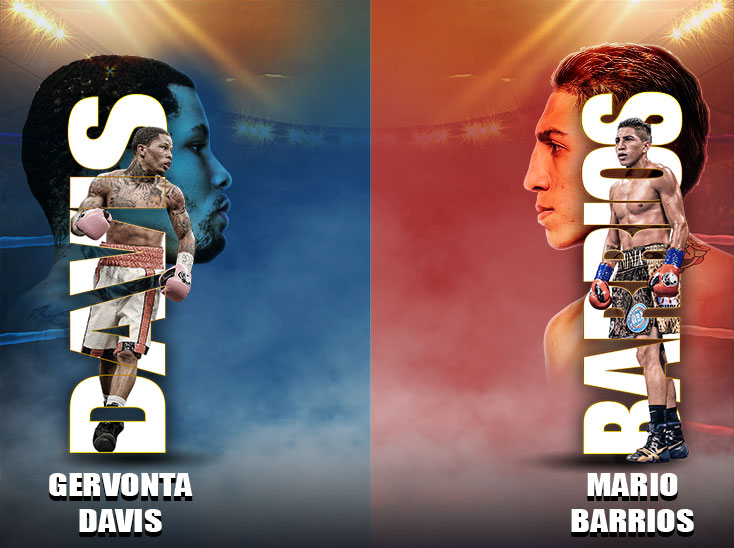
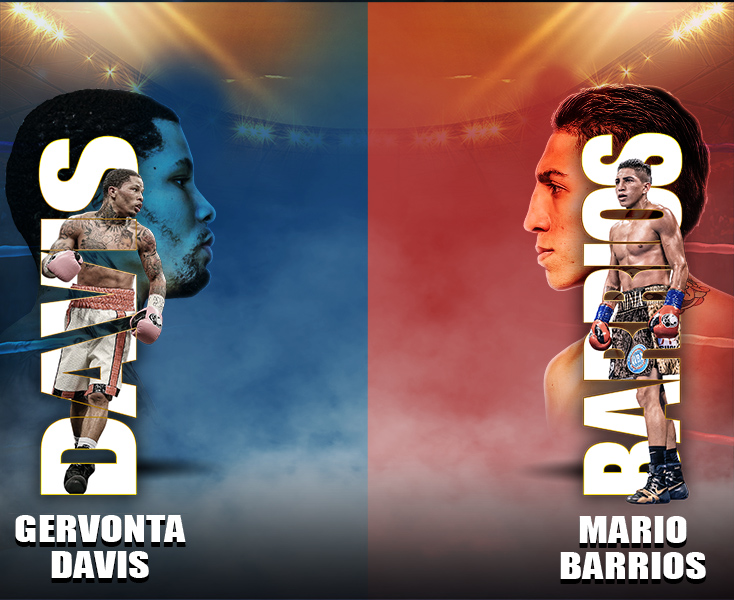
updated hero image with slightly taller one, and adjusted styling

diff --git a/src/components/Hero/index.js b/src/components/Hero/index.js
@@ -59,7 +59,7 @@ const Hero = ({ title, date, background, logo, vs }) => {
         >
           <Box width={`100%`} display="grid" placeItems="center">
             <Box
-              maxWidth={[`170px`, `200px`, `250px`, `250px`, `400px`]}
+              maxWidth={[`160px`, `200px`, `250px`, `250px`, `400px`]}
               mx={`auto`}
               py={1}
             >
@@ -81,9 +81,9 @@ const Hero = ({ title, date, background, logo, vs }) => {
               </Heading>
             </Box>
             <Box
-              maxWidth={[`40px`, `80px`, `100px`, `100px`, `150px`]}
-              pb={[2, 3]}
-              mt={[-1, 0]}
+              maxWidth={[`45px`, `80px`, `100px`, `100px`, `150px`]}
+              pb={[3, 5, 5, 5, 5]}
+              mt={[0, 2, 2, 2, 2]}
             >
               <Fade bottom>
                 <GatsbyImage image={vs} alt={"VS logo"} />
@@ -151,8 +151,8 @@ const Hero = ({ title, date, background, logo, vs }) => {
               // width={`fit-content`}
               px={4}
               py={[0, 1, 1, 1]}
-              mt={[-2, -2, -2, -5, -5]}
-              mb={0}
+              mt={[-2, -4, -4, -5, -5]}
+              mb={[2, 3, 6, 6, 6]}
               textTransform="uppercase"
             >
               <Fade bottom>
@@ -162,7 +162,7 @@ const Hero = ({ title, date, background, logo, vs }) => {
                   textShadow={`0 2px 1px rgb(0 0 1 / 100%)`}
                   // letterSpacing="widest"
                   lineHeight={1}
-                mt={[2, 4, 6]}
+                  mt={[2, 4, 6]}
                   fontWeight={"900"}
                 >
                   {date}
@@ -204,10 +204,9 @@ const Hero = ({ title, date, background, logo, vs }) => {
 
       <Box display="grid" style={{ gridArea: "1/1" }}>
         <GatsbyImage
-          className="art-directed"
           image={background}
           alt="Title"
-          style={{ gridArea: "1/1", maxWidth: "100%" }}
+          style={{ gridArea: "1/1" }}
         />
       </Box>
     </Box>

diff --git a/src/components/Logos/index.js b/src/components/Logos/index.js
@@ -70,35 +70,35 @@ const Logos = () => {
       <Grid
         display={`grid`}
         placeItems={`center`}
-        templateColumns={["repeat(2, auto)", "repeat(4, auto)"]}
-        templateRows={["repeat(2, 1fr)", "repeat(1, 1fr)"]}
-        gridGap={6}
+        templateColumns={["repeat(2, .7fr)", ".7fr auto auto .7fr"]}
+        templateRows={["repeat(2, auto)", "repeat(1, auto)"]}
+        gridGap={[1, 6]}
         className="logoContainer"
         px={2}
         mx="auto"
       >
-        <Box display={`grid`} placeItems={`center`} className="logoItemLg">
+        <Box display={`grid`} placeItems={`center`}>
           <GatsbyImage
             image={getImage(logos.mayweather.childImageSharp)}
             alt={"box logo"}
             style={{ maxWidth: "100%" }}
           />
         </Box>
-        <Box display={`grid`} placeItems={`center`} className="logoItem">
+        <Box display={`grid`} placeItems={`center`}>
           <GatsbyImage
             image={getImage(logos.gtd.childImageSharp)}
             alt={"box logo"}
             style={{ maxWidth: "100%" }}
           />
         </Box>
-        <Box display={`grid`} placeItems={`center`} className="logoItem">
+        <Box display={`grid`} placeItems={`center`}>
           <GatsbyImage
             image={getImage(logos.gtb.childImageSharp)}
             alt={"box logo"}
             style={{ maxWidth: "100%" }}
           />
         </Box>
-        <Box display={`grid`} placeItems={`center`} className="logoItemLg">
+        <Box display={`grid`} placeItems={`center`}>
           <GatsbyImage
             image={getImage(logos.showtime.childImageSharp)}
             alt={"box logo"}

diff --git a/src/components/Footer/index.js b/src/components/Footer/index.js
@@ -27,7 +27,7 @@ const Footer = () => {
       role="contentinfo"
       mx="auto"
       maxW="7xl"
-      py={[0, 0, 12]}
+      py={[0, 0, 8]}
       px={{
         base: "4",
         md: "8",
@@ -41,9 +41,10 @@ const Footer = () => {
           "repeat(2, auto)",
           "auto 50% auto",
         ]}
-        templateRows={["repeat(3, 1fr)", "repeat(2, 1fr)", "repeat(1, 1fr)"]}
+        templateRows={["repeat(3, auto)", "repeat(2, auto)", "repeat(1, auto)"]}
         gridGap={6}
         px={2}
+        py={4}
         mx="auto"
         mb={10}
       >

diff --git a/src/components/Hero/hero.scss b/src/components/Hero/hero.scss
@@ -1,7 +1,3 @@
-// .art-directed img {
-//     height: auto;
-// }
-
 @media screen and (min-width: 1300px) {
     .contBGspace {
         margin-top: .5%;
@@ -16,7 +12,7 @@
 }
 @media screen and (max-width: 840px) {
     .contBGspace {
-        margin-top: 8%;
+        margin-top: 4%;
         margin-bottom: 8%;
     }
 }
@@ -52,7 +48,7 @@
 }
 @media screen and (max-width: 400px) {
     .contBGspace {
-        margin-top: .5%;
-        margin-bottom: .5%;
+        margin-top: 1%;
+        margin-bottom: 2%;
     }
 }

diff --git a/src/components/Bands/index.js b/src/components/Bands/index.js
@@ -16,6 +16,7 @@ const Bands = ({ bands }) => {
           textTransform="uppercase"
           fontSize={[`2xl`, `4xl`, `5xl`]}
           fontWeight={"900"}
+          textShadow={`0 3px 1px rgb(0 0 1 / 100%), 1px 3px 1px rgb(0 0 1 / 100%)`}
         >
           Post Fight Concert Starring
         </Text>
